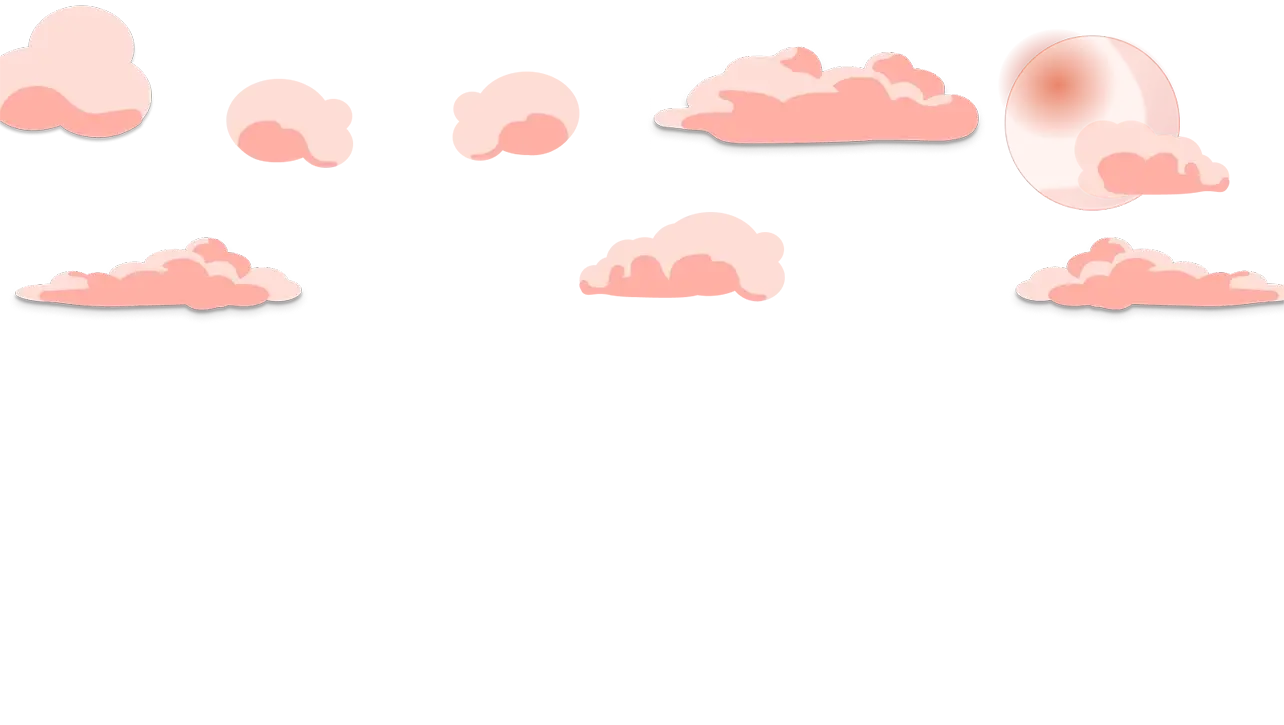
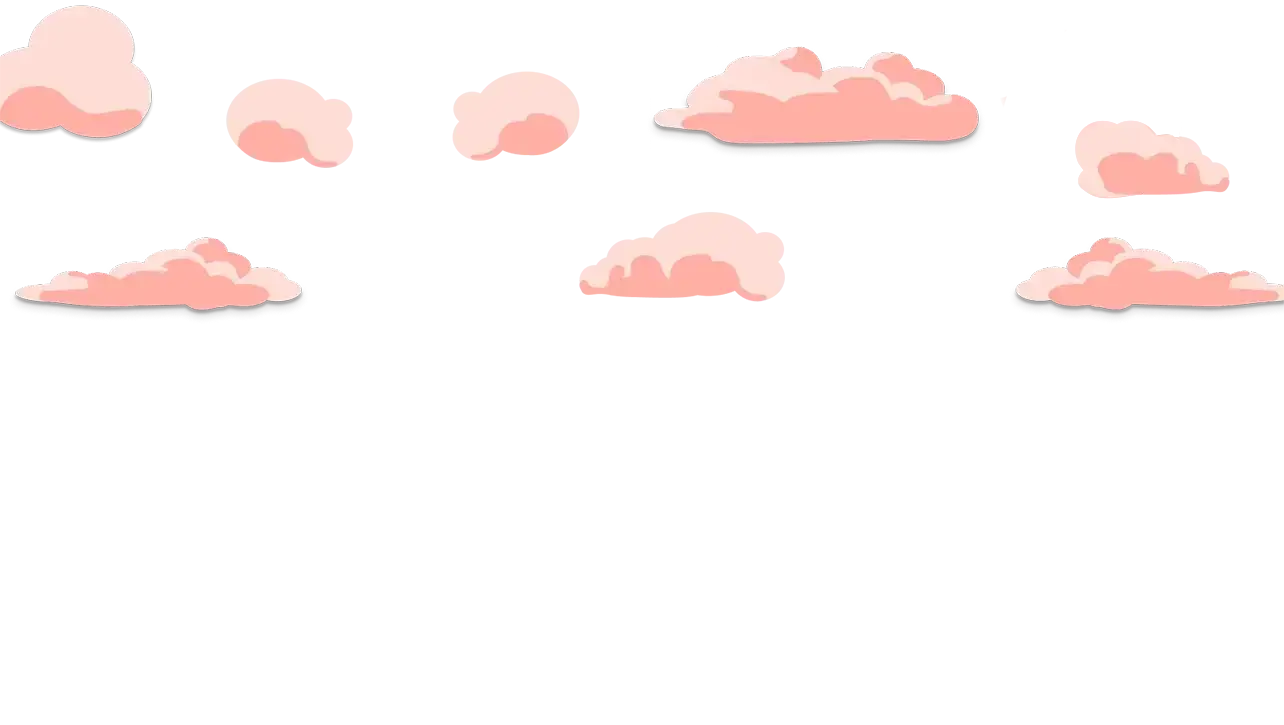
feat : Change Cateogry page design and add content

Changed region(s): [[0.7788, 0.0303, 0.9346, 0.2124], [0.81, 0.2428, 0.8723, 0.3034]]

diff --git a/src/components/CategoryPage/HeroImage/HeroImage.module.css b/src/components/CategoryPage/HeroImage/HeroImage.module.css
@@ -1,0 +1,52 @@
+.Wrapper {
+	display: grid;
+
+	grid: [cateogry-hero] 1fr / [cateogry-hero] 1fr;
+	overflow: hidden;
+}
+
+.Title {
+	grid-area: cateogry-hero-image;
+
+	position: relative;
+	padding: 98px 32px 66px 128px;
+
+	font-family: "Wotfard", sans-serif;
+	font-size: 5rem;
+	color: var(--color-text);
+	text-transform: capitalize;
+
+	animation: showup;
+	animation-delay: 100ms;
+	animation-duration: 500ms;
+	animation-fill-mode: backwards;
+	z-index: 10;
+}
+
+.LowerCloud {
+	grid-area: cateogry-hero-image;
+
+	animation: showup;
+	animation-delay: 100ms;
+	animation-duration: 500ms;
+	animation-fill-mode: backwards;
+}
+
+.HigherCloud {
+	grid-area: cateogry-hero-image;
+
+	animation: showup;
+	animation-delay: 100ms;
+	animation-duration: 500ms;
+	animation-fill-mode: backwards;
+}
+
+@keyframes showup {
+	0% {
+		opacity: 0;
+	}
+
+	100% {
+		opacity: 1;
+	}
+}

diff --git a/src/components/CategoryPage/HeroImage/HeroImage.js b/src/components/CategoryPage/HeroImage/HeroImage.js
@@ -1,0 +1,32 @@
+import lowerSky from "public/assets/lower_cloud.webp";
+import higherSky from "public/assets/higher_cloud.webp";
+import Image from "next/image";
+import styles from "./HeroImage.module.css";
+
+function HeroImage({ category }) {
+	return (
+		<div className={styles.Wrapper}>
+			<h1 className={styles.Title}>{category}</h1>
+			<Image
+				className={styles.LowerCloud}
+				src={`${lowerSky.src}?format=webp`}
+				alt={"Cateogry Page HeroImage"}
+				width={lowerSky.width}
+				height={lowerSky.height}
+				priority={true}
+				quality={10}
+			/>
+			<Image
+				className={styles.HigherCloud}
+				src={`${higherSky.src}?format=webp`}
+				alt={"Cateogry Page HeroImage"}
+				width={higherSky.width}
+				height={higherSky.height}
+				priority={true}
+				quality={10}
+			/>
+		</div>
+	);
+}
+
+export default HeroImage;

diff --git a/src/components/CategoryPage/CategoryPage.js b/src/components/CategoryPage/CategoryPage.js
@@ -1,5 +1,7 @@
-import Card from "../LandingPage/Card";
 import Post from "@/utils/Post";
+import styles from "./CategoryPage.module.css";
+import CardList from "../LandingPage/CardList";
+import HeroImage from "./HeroImage";
 
 async function getFrontmatters(category) {
 	const post = new Post();
@@ -11,11 +13,9 @@ async function CategoryPage({ category }) {
 	const frontmatters = await getFrontmatters(category);
 
 	return (
-		<div style={{ gridArea: "main-content" }}>
-			{frontmatters &&
-				frontmatters.map((frontmatter) => (
-					<Card key={crypto.randomUUID()} frontMatter={frontmatter} />
-				))}
+		<div className={styles.Wrapper}>
+			<HeroImage category={category} />
+			<CardList list={frontmatters} />
 		</div>
 	);
 }

diff --git a/src/app/layout.tsx b/src/app/layout.tsx
@@ -38,6 +38,12 @@ export default function RootLayout({
             font-style: normal;
             font-display: fallback;
           }
+          @font-face {
+            font-family: 'Wotfard';
+            src: url('/fonts/wotfard-regular-webfont.woff2') format('woff2'),
+            font-style: normal;
+            font-display: fallback;
+          }
         `}} />
         <style>
           {

diff --git a/src/app/globals.css b/src/app/globals.css
@@ -99,15 +99,7 @@ button {
 
 span {
 	font-size: var(--size-6);
-	font-family: var(--font-nanum-special);
 	font-weight: 600;
-}
-
-h1,
-h2,
-h3,
-h4 {
-	font-family: var(--font-nanum), sans-serif;
 }
 
 a {

diff --git a/src/components/CategoryPage/CategoryPage.module.css b/src/components/CategoryPage/CategoryPage.module.css
@@ -1,0 +1,6 @@
+.Wrapper {
+	grid-area: main-content;
+
+	padding-left: 32px;
+	padding-right: 32px;
+}

diff --git a/src/components/CategoryPage/HeroImage/index.js b/src/components/CategoryPage/HeroImage/index.js
@@ -1,0 +1,2 @@
+export * from "./HeroImage";
+export { default } from "./HeroImage";

diff --git a/posts/cs/objectOriented.md b/posts/cs/objectOriented.md
@@ -1,0 +1,58 @@
+---
+title: 객체지향을 향해
+date: 2023-10-21
+tags: mathmatics
+summary: 객체란 무엇이고 왜 지향할까?
+slug: about-object-oriented
+category: cs
+---
+## 객체란 무엇일까?
+
+객체는 상태(state)와 행동(behavior)을 지닌 실체다.
+
+이 말이 의미하는 것이 무엇일까? 요리사를 예제로 이 의미에 대해서 생각해보자. 우리가 방문한 음식점의 요리사는 특정한 상태를 지닐것이다. 요리사는 아마도 어떤 대회에서 우승한 경력이 있는 요리사 일 것이다. 그렇다면 요리사는 요리 대회에서 우승한 요리사라는 상태를 갖고 있는 것이다. 또한 행동을 지닌 실체라고 했다. 요리사는 요리를 한다는 행동을 갖고 있다.
+
+이러한 설명을 기반으로 객체에 대한 설명을 생각해보면 이제 꽤 그럴싸 해진거 같다.
+
+## 객체의 속성
+
+객체들은 서로 협력(collaboration) 관계를 가지며 각자의 역할(role)이 있고 각자 맡고 있는 역할에 따른 책임(responsibility)을 지녀야 한다.
+
+요리사의 역할은 무엇일까? 손님이 요청한 음식을 제공하는 역할을 지닌다. 그렇다면 이러한 책임은 무엇일까? 손님이 지불하는 금액에 합당한 음식을 제공해야하는 역할을 지닌다.
+
+위의 간단한 설명에서 알 수 있는 것이 있다. 요리사라는 객체가 요리를 만들기 위해서 필요한 것은 무엇일까? 바로 요청(request)다. 손님이 음식을 주문하지 않은 이상 요리사가 요리할 이유가 없다.
+
+손님이 요리사에게 요리를 요청(request)하면 이 요청에 맞는 응답(response)으로 요리를 제공하는 것이다.
+
+## 객체지향의 본질
+
+객체지향이란 시스템을 상호작용하는 자율적인 객체들의 공동체로 바라보고 객체를 이용해 시스템을 분할하는 방법이다.
+
+## 야구게임 분석하기
+
+야구게임에 존재하는 객체들은 뭐가 있을까?
+
+우선 게임기가 있어야 한다.
+
+게임기의 역할은?
+게임을 시작하고
+게임을 진행하고
+게임을 끝낼 수 있어야 한다.
+
+다음은 사용자가 있다.
+
+사용자의 역할은?
+정답으로 추측되는 값을 입력한다.
+결과를 확인한다.
+게임을 종료할지 계속할지 결정한다.
+
+크게 보면 이렇게 두 가지가 있을 것이다. 하지만 사용자는 사용자 하나로써 온전한 객체이지만 게임기는 그렇지 않다.
+
+게임기의 역할을 수행하기 위한 객체들은 무엇이 있을지 생각해보자.
+
+유저가 입력한 입력 값을 받아들이는 수신기가 필요하다.
+수신한 값의 결과를 분석할 수 있는 분석기가 필요하다.
+분석한 결과를 처리할 수 있는 처리기가 필요하다.
+처리된 값을 사용자가 볼 수 있게끔하는 출력기가 필요하다.
+
+수신기가 입력 값을 수신 -> 수신기의 값을 받아 결과를 분석 -> 분석한 결과를 출력 -> 결과를 처리해야 한다.
